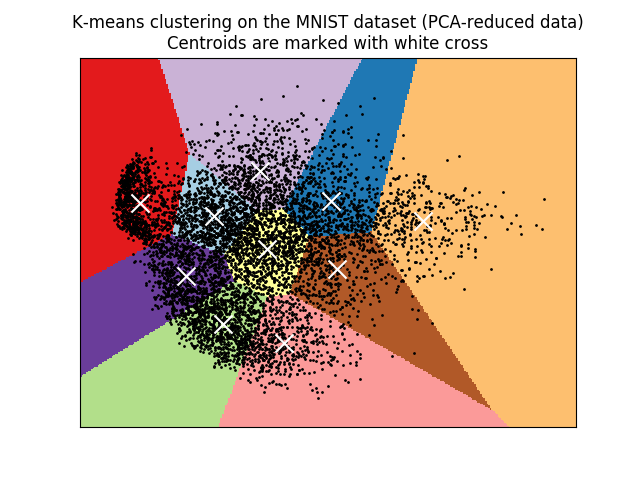
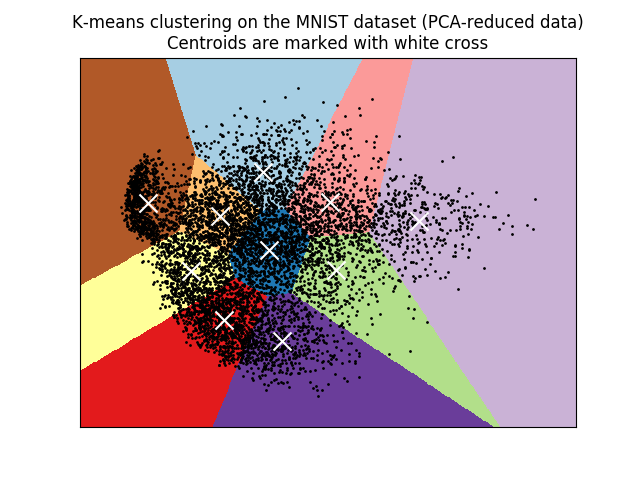
kmeans finished

diff --git a/plot_kmeans_digits.py b/plot_kmeans_digits.py
@@ -27,6 +27,7 @@ silhouette   silhouette coefficient
 """
 print(__doc__)
 
+import os
 import pickle
 from time import time
 import numpy as np
@@ -36,16 +37,18 @@ import matplotlib.pyplot as plt
 from sklearn import metrics
 from sklearn.cluster import KMeans
 from sklearn.datasets import load_digits
-from sklearn.decomposition import PCA
+from sklearn.decomposition import PCA, FastICA
 from sklearn.preprocessing import scale
 from sklearn.utils import shuffle
 from sklearn.model_selection import train_test_split
+from sklearn.random_projection import SparseRandomProjection
 
 np.set_printoptions(threshold=np.nan)
 np.random.seed(42)
 
 def bench_k_means(estimator, name, data):
     t0 = time()
+    print('data size', len(data))
     estimator.fit(data)
     print('% 9s   %.2fs    %i   %.3f   %.3f   %.3f   %.3f   %.3f    %.3f'
           % (name, (time() - t0), estimator.inertia_,
@@ -59,7 +62,7 @@ def bench_k_means(estimator, name, data):
                                       sample_size=sample_size)))
 
 def test_kmeans(data, original):
-  print(79 * '_')
+  print(79 * '-')
   print('% 9s' % 'init'
         '    time  inertia    homo   compl  v-meas     ARI AMI  silhouette')
 
@@ -76,7 +79,101 @@ def test_kmeans(data, original):
     bench_k_means(KMeans(init=pca.components_, n_clusters=n_digits, n_init=1),
                   name="PCA-based",
                   data=data)
-  print(79 * '_')
+  print(79 * '-')
+
+def twoDVis(estimator, name):
+  ###############################################################################
+  # Visualize the results on PCA-reduced data
+  est = estimator.fit(data)
+  reduced_data = est.transform(data)
+
+  kmeans = KMeans(init='k-means++', n_clusters=n_digits, n_init=10)
+  kmeans.fit(reduced_data)
+
+  # Step size of the mesh. Decrease to increase the quality of the VQ.
+  # h = .05     # point in the mesh [x_min, x_max]x[y_min, y_max].
+
+  # Plot the decision boundary. For that, we will assign a color to each
+  x_min, x_max = reduced_data[:, 0].min() - 0.1 * (reduced_data[:, 0].max() - reduced_data[:, 0].min()), reduced_data[:, 0].max() + 0.1 * (reduced_data[:, 0].max() - reduced_data[:, 0].min())
+  y_min, y_max = reduced_data[:, 1].min() - 0.1 * (reduced_data[:, 1].max() - reduced_data[:, 1].min()), reduced_data[:, 1].max() + 0.1 * (reduced_data[:, 1].max() - reduced_data[:, 1].min())
+  h = (x_max - x_min) / 500
+  xx, yy = np.meshgrid(np.arange(x_min, x_max, h), np.arange(y_min, y_max, h))
+
+  # Obtain labels for each point in mesh. Use last trained model.
+  Z = kmeans.predict(np.c_[xx.ravel(), yy.ravel()])
+
+  # Put the result into a color plot
+  Z = Z.reshape(xx.shape)
+  plt.figure(1)
+  plt.clf()
+  plt.title(name+'-reduced data visualization')
+  plt.scatter(reduced_data[:, 0], reduced_data[:, 1], c=labels)
+  plt.colorbar()
+  plt.savefig(name+'_vis.png')
+  # plt.show()
+  plt.clf()
+  plt.imshow(Z, interpolation='nearest',
+             extent=(xx.min(), xx.max(), yy.min(), yy.max()),
+             cmap=plt.cm.Paired,
+             aspect='auto', origin='lower')
+
+  plt.plot(reduced_data[:, 0], reduced_data[:, 1], 'k.', markersize=2)
+  # Plot the centroids as a white X
+  centroids = kmeans.cluster_centers_
+  plt.scatter(centroids[:, 0], centroids[:, 1],
+              marker='x', s=169, linewidths=3,
+              color='w', zorder=10)
+  plt.title('K-means clustering on the MNIST dataset ('+name+'-reduced data)\n'
+            'Centroids are marked with white cross')
+  plt.xlim(x_min, x_max)
+  plt.ylim(y_min, y_max)
+  plt.xticks(())
+  plt.yticks(())
+  plt.savefig('kmeans_'+name+'.png')
+  # plt.show()
+
+def kmeans_on_reduction(estimator, n_components, name, itr = None, eps = None):
+  if itr != None:
+    est = estimator(n_components=n_components, max_iter=itr).fit(data)
+  elif eps != None:
+    est = estimator(n_components=n_components, eps = eps).fit(data)
+  else:
+    est = estimator(n_components=n_components).fit(data)
+  reduced_data = est.transform(data)
+  # print(reduced_data.shape)
+  reduced_data_test = est.transform(data_test)
+
+  with open('reduced_data_train_'+name+'.pkl', 'wb') as f:
+    pickle.dump(reduced_data, f)
+
+  with open('reduced_data_test_'+name+'.pkl', 'wb') as f:
+    pickle.dump(reduced_data_test, f)
+
+  print('Kmeans on '+name)
+  if n_components != 'auto':
+    print("n_digits: %d, \t n_samples %d, \t n_features %d"
+          % (n_digits, n_samples, n_components))
+  else:
+    print("n_digits: %d, \t n_samples %d, \t n_features %s"
+        % (n_digits, n_samples, n_components))
+  test_kmeans(reduced_data, False)
+
+  kmeans = KMeans(init='k-means++', n_clusters=n_digits, n_init=10)
+  kmeans.fit(reduced_data)
+  p_labels = kmeans.predict(reduced_data)
+  p_labels = np.expand_dims(p_labels, axis=1)
+  new_data = np.hstack((reduced_data, p_labels))
+  p_labels_test = kmeans.predict(reduced_data_test)
+  p_labels_test = np.expand_dims(p_labels_test, axis=1)
+  new_data_test = np.hstack((reduced_data_test, p_labels_test))
+
+  with open(name+'_Kmeans_feature_train.pkl', 'wb') as f:
+    pickle.dump(new_data, f)
+
+  with open(name+'_Kmeans_feature_test.pkl', 'wb') as f:
+    pickle.dump(new_data_test, f)
+
+  twoDVis(estimator(n_components=2), name)
 
 train_df = pd.read_csv('train.csv', header=0)
 train_df = shuffle(train_df, n_samples = 10000, random_state = 0)
@@ -100,7 +197,6 @@ n_digits = len(np.unique(labels))
 
 # print labels
 
-# pickle.dump(data, open('data.pkl', 'wb'))
 with open('labels_train.pkl', 'wb') as f:
   pickle.dump(labels, f)
 
@@ -109,35 +205,55 @@ with open('labels_test.pkl', 'wb') as f:
 
 sample_size = 300
 
+
+# Need to test component number here!
+
 print('Kmeans')
 print("n_digits: %d, \t n_samples %d, \t n_features %d"
       % (n_digits, n_samples, n_features))
 test_kmeans(data, True)
-print
+
+
+
 
 ###############################################################################
 # Rerun Kmeans on PCA-reduced data
 
-# Need to test component number here!
-
-pca = PCA(n_components=2).fit(data)
-reduced_data = pca.transform(data)
-# print(reduced_data.shape)
-reduced_data_test = pca.transform(data_test)
-
-with open('reduced_data_train_PCA.pkl', 'wb') as f:
-  pickle.dump(reduced_data, f)
-
-with open('reduced_data_test_PCA.pkl', 'wb') as f:
-  pickle.dump(reduced_data_test, f)
-
-print('Kmeans on PCA')
-print("n_digits: %d, \t n_samples %d, \t n_features %d"
-      % (n_digits, n_samples, 2))
-test_kmeans(reduced_data, False)
+kmeans_on_reduction(PCA, 10, 'PCA')
 
 ###############################################################################
-# Visualize the results on PCA-reduced data
+# Rerun Kmeans on PCA-reduced data
+  
+kmeans_on_reduction(FastICA, 10, 'ICA', itr=100000)
+
+###############################################################################
+# Rerun Kmeans on RP-reduced data
+  
+kmeans_on_reduction(SparseRandomProjection, 'auto', 'RP', eps=0.8)
+
+###############################################################################
+# Rerun Kmeans on VAE-reduced data
+
+os.system('python vae.py')
+
+with open('reduced_data_train_VAE.pkl', 'rb') as f:
+  reduced_data = pickle.load(f)
+
+with open('reduced_data_test_VAE.pkl', 'rb') as f:
+  reduced_data_test = pickle.load(f)
+
+with open('labels_train_VAE.pkl', 'rb') as f:
+  labels = pickle.load(f)
+
+with open('labels_test_VAE.pkl', 'rb') as f:
+  labels_test = pickle.load(f)
+
+n_samples = len(reduced_data)
+
+print('Kmeans on VAE')
+print("n_digits: %d, \t n_samples %d, \t n_features %d"
+      % (n_digits, n_samples,2))
+test_kmeans(reduced_data, True)
 
 kmeans = KMeans(init='k-means++', n_clusters=n_digits, n_init=10)
 kmeans.fit(reduced_data)
@@ -148,18 +264,17 @@ p_labels_test = kmeans.predict(reduced_data_test)
 p_labels_test = np.expand_dims(p_labels_test, axis=1)
 new_data_test = np.hstack((reduced_data_test, p_labels_test))
 
-with open('PCA_Kmeans_feature_train.pkl', 'wb') as f:
+with open('VAE_Kmeans_feature_train.pkl', 'wb') as f:
   pickle.dump(new_data, f)
 
-with open('PCA_Kmeans_feature_test.pkl', 'wb') as f:
+with open('VAE_Kmeans_feature_test.pkl', 'wb') as f:
   pickle.dump(new_data_test, f)
 
-# Step size of the mesh. Decrease to increase the quality of the VQ.
-h = .05     # point in the mesh [x_min, x_max]x[y_min, y_max].
-
+name = 'VAE'
 # Plot the decision boundary. For that, we will assign a color to each
-x_min, x_max = reduced_data[:, 0].min() - 1, reduced_data[:, 0].max() + 1
-y_min, y_max = reduced_data[:, 1].min() - 1, reduced_data[:, 1].max() + 1
+x_min, x_max = reduced_data[:, 0].min() - 0.1 * (reduced_data[:, 0].max() - reduced_data[:, 0].min()), reduced_data[:, 0].max() + 0.1 * (reduced_data[:, 0].max() - reduced_data[:, 0].min())
+y_min, y_max = reduced_data[:, 1].min() - 0.1 * (reduced_data[:, 1].max() - reduced_data[:, 1].min()), reduced_data[:, 1].max() + 0.1 * (reduced_data[:, 1].max() - reduced_data[:, 1].min())
+h = (x_max - x_min) / 500
 xx, yy = np.meshgrid(np.arange(x_min, x_max, h), np.arange(y_min, y_max, h))
 
 # Obtain labels for each point in mesh. Use last trained model.
@@ -169,10 +284,11 @@ Z = kmeans.predict(np.c_[xx.ravel(), yy.ravel()])
 Z = Z.reshape(xx.shape)
 plt.figure(1)
 plt.clf()
-plt.title('PCA-reduced data visualization')
+plt.title(name+'-reduced data visualization')
 plt.scatter(reduced_data[:, 0], reduced_data[:, 1], c=labels)
 plt.colorbar()
-plt.savefig('pca_vis.png')
+plt.savefig(name+'_vis.png')
+# plt.show()
 plt.clf()
 plt.imshow(Z, interpolation='nearest',
            extent=(xx.min(), xx.max(), yy.min(), yy.max()),
@@ -185,11 +301,10 @@ centroids = kmeans.cluster_centers_
 plt.scatter(centroids[:, 0], centroids[:, 1],
             marker='x', s=169, linewidths=3,
             color='w', zorder=10)
-plt.title('K-means clustering on the MNIST dataset (PCA-reduced data)\n'
+plt.title('K-means clustering on the MNIST dataset ('+name+'-reduced data)\n'
           'Centroids are marked with white cross')
 plt.xlim(x_min, x_max)
 plt.ylim(y_min, y_max)
 plt.xticks(())
 plt.yticks(())
-plt.savefig('kmeans_pca.png')
-
+plt.savefig('kmeans_'+name+'.png')

diff --git a/vae.py b/vae.py
@@ -65,6 +65,12 @@ vae.compile(optimizer='rmsprop', loss=vae_loss)
 # train the VAE on MNIST digits
 (x_train, y_train), (x_test, y_test) = mnist.load_data()
 
+with open('labels_train_VAE.pkl', 'wb') as f:
+    pickle.dump(y_train, f)
+
+with open('labels_test_VAE.pkl', 'wb') as f:
+    pickle.dump(y_test, f)
+
 x_train = x_train.astype('float32') / 255.
 x_test = x_test.astype('float32') / 255.
 x_train = x_train.reshape((len(x_train), np.prod(x_train.shape[1:])))
@@ -81,11 +87,13 @@ encoder = Model(x, z_mean)
 
 # display a 2D plot of the digit classes in the latent space
 x_train_encoded = encoder.predict(x_train, batch_size=batch_size)
-with open('data_train_encoded.pkl', 'wb') as f:
+with open('reduced_data_train_VAE.pkl', 'wb') as f:
     pickle.dump(x_train_encoded, f)
+
 x_test_encoded = encoder.predict(x_test, batch_size=batch_size)
-with open('data_test_encoded.pkl', 'wb') as f:
+with open('reduced_data_test_VAE.pkl', 'wb') as f:
     pickle.dump(x_test_encoded, f)
+
 plt.figure(figsize=(6, 6))
 plt.scatter(x_test_encoded[:, 0], x_test_encoded[:, 1], c=y_test)
 plt.colorbar()
